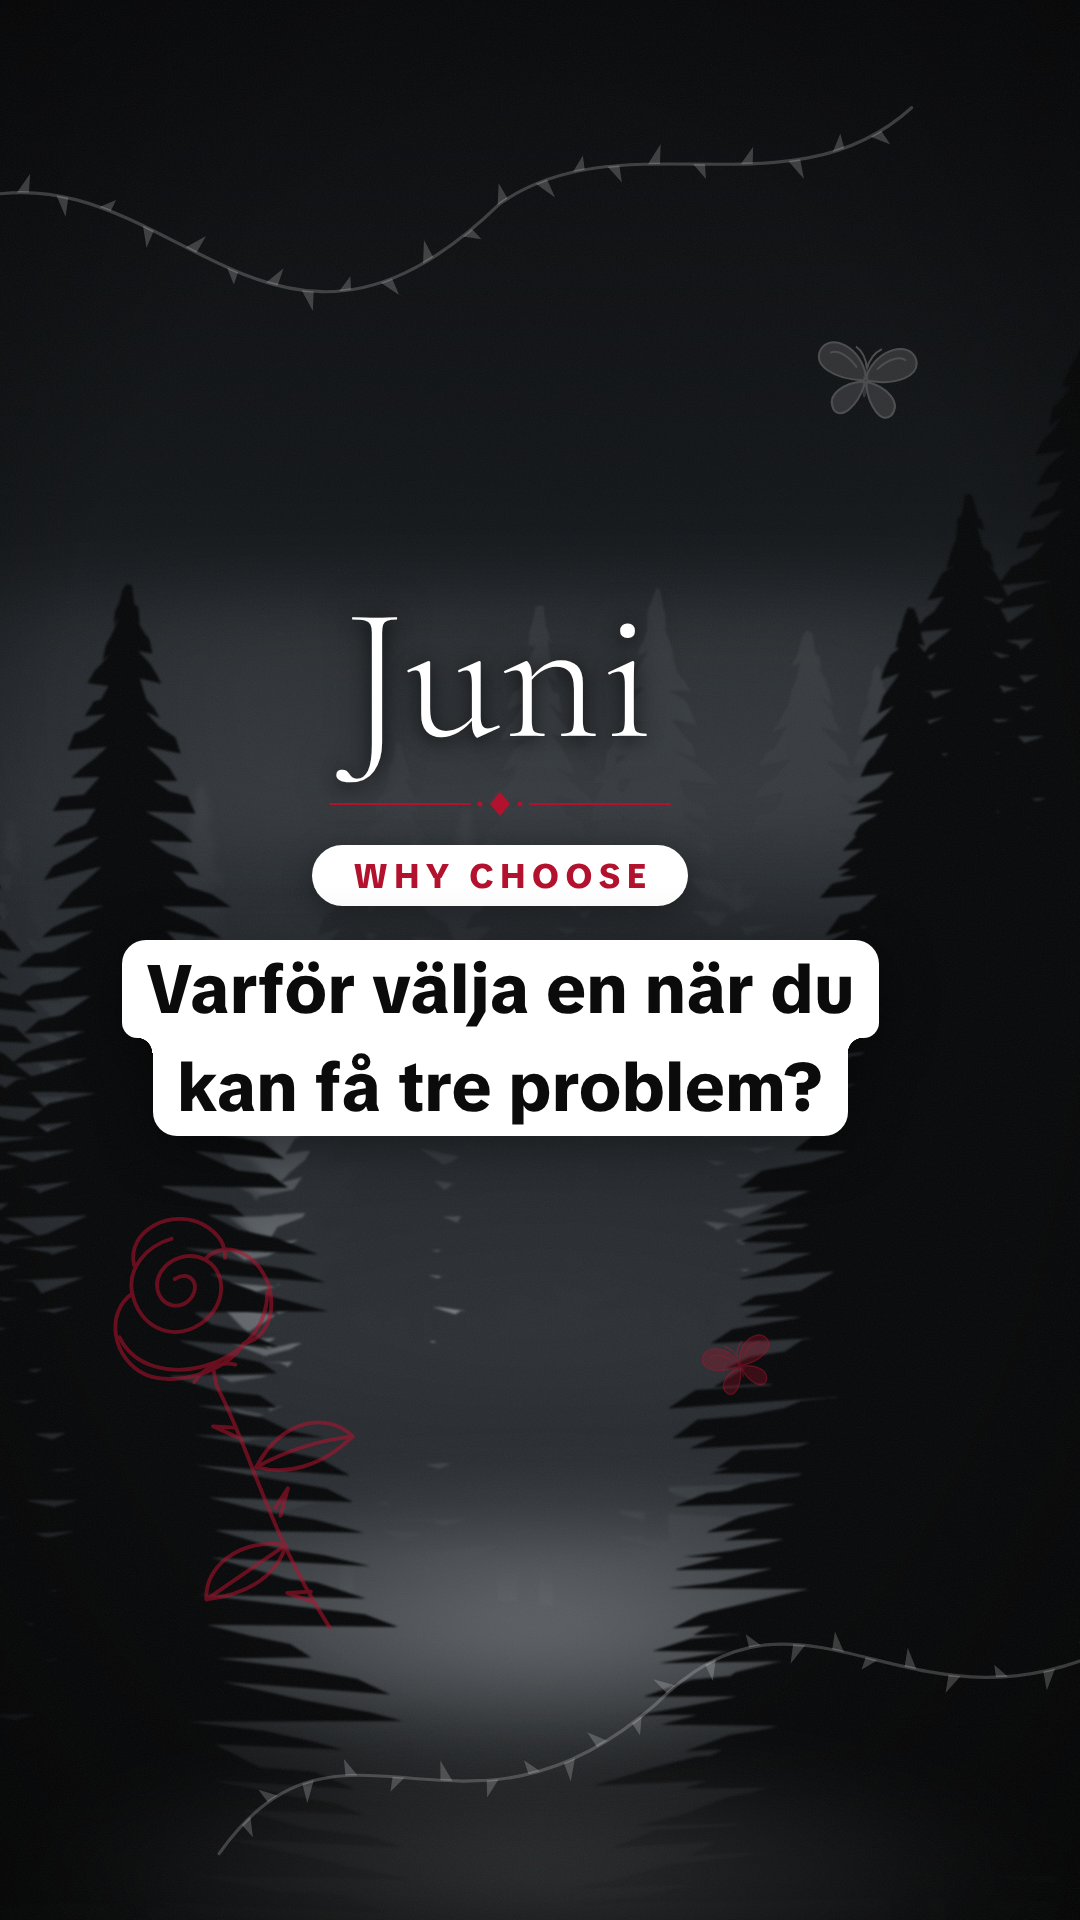
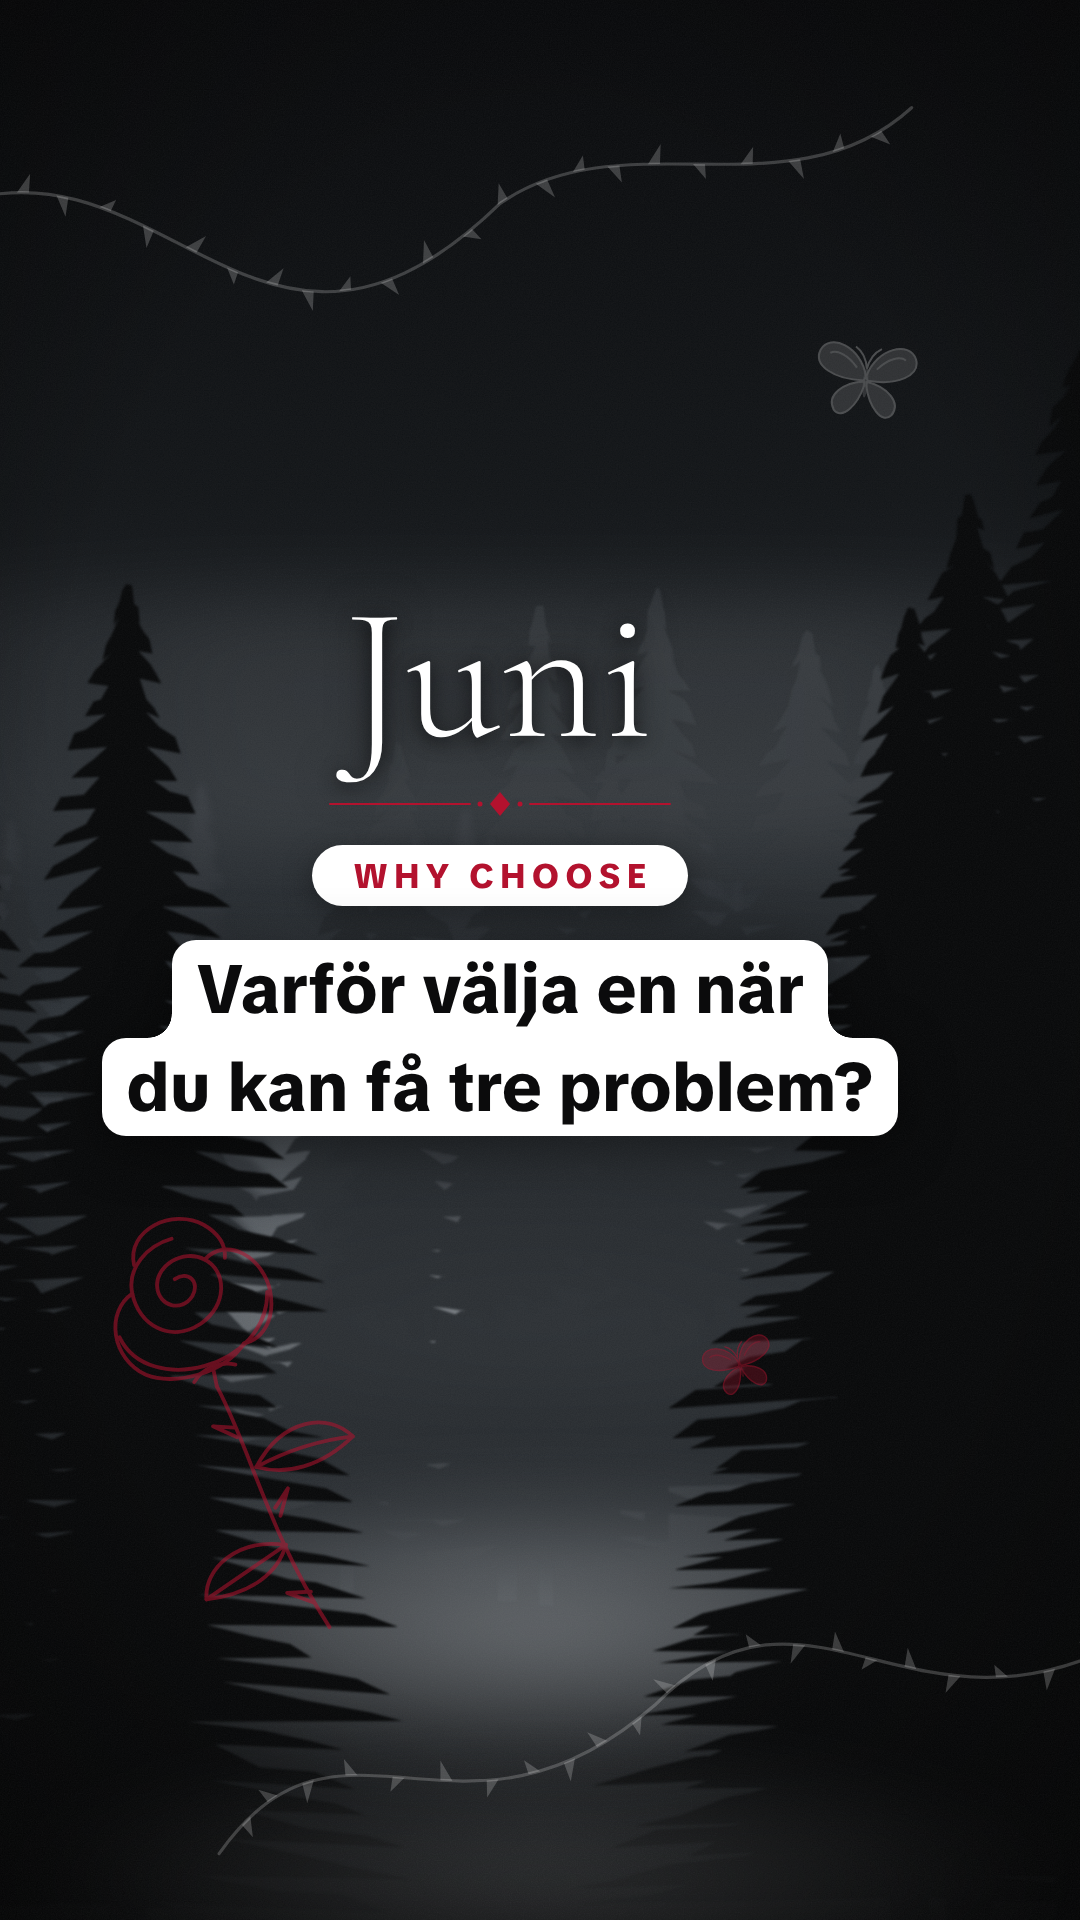
Add trope-horoskop-del-2 carousel; keep short words with the next word
Lines no longer end on 1-2 letter words ("i", "på" ...), which fixed
two awkward breaks in part 2. Part 1 re-rendered with the same rule.

Claude-Session: https://claude.ai/code/session_019ia7sagXX6FGPvRFK8whH2

Changed region(s): [[0.0917, 0.4688, 0.8556, 0.5938]]

diff --git a/boksaradark-carousel/src/layout.js b/boksaradark-carousel/src/layout.js
@@ -19,17 +19,26 @@
   if (!qa.fonts['Noto Color Emoji']) qa.issues.push('Noto Color Emoji laddades inte – emojis kan bli rutor');
 
   // ---- Text → ord-token. *så här* markerar accentord (röd text). \n tvingar ny rad. ----
+  // Korta ord (i, på, en, du …) hålls ihop med nästa ord så att en rad aldrig slutar på dem.
+  const isShortWord = (t) => /^[\p{L}\p{N}]{1,2}$/u.test(t);
+
   function tokenize(text) {
     let em = false;
-    return text.split('\n').map((para) =>
-      para.split(' ').filter(Boolean).map((word) => {
+    return text.split('\n').map((para) => {
+      const toks = para.split(' ').filter(Boolean).map((word) => {
         let t = word;
         let wordEm = em;
         if (t.startsWith('*')) { t = t.slice(1); wordEm = true; em = true; }
         if (t.endsWith('*')) { t = t.slice(0, -1); em = false; }
         return { t, em: wordEm };
-      }),
-    );
+      });
+      for (let i = toks.length - 2; i >= 0; i--) {
+        if (isShortWord(toks[i].t) && toks[i].em === toks[i + 1].em) {
+          toks.splice(i, 2, { t: `${toks[i].t}\u00a0${toks[i + 1].t}`, em: toks[i].em });
+        }
+      }
+      return toks;
+    });
   }
 
   function wordSpan(tok) {

diff --git a/boksaradark-carousel/README.md b/boksaradark-carousel/README.md
@@ -57,6 +57,7 @@ Vill du se de säkra zonerna inritade? `npm run render <namn> -- --guides` lägg
 Textregler:
 
 - `\n` = ny rad. Skriv en mening per rad. Renderaren krymper texten lite om det gör att varje mening får plats på en egen rad, och bryter annars balanserat.
+- Korta ord (1–2 bokstäver, t.ex. *i, på, en, är*) hålls automatiskt ihop med nästa ord så att en rad aldrig slutar på dem. Vill du hålla ihop fler ord själv: använd hårt mellanslag (`\u00a0`).
 - `*ord*` = röd accenttext (använd sparsamt, t.ex. en punchline).
 - Emojis och å/ä/ö fungerar som vanligt.
 - Är texten för lång krymps den automatiskt. Får den ändå inte plats skriver kommandot en varning (⚠) och avslutas med felkod.
